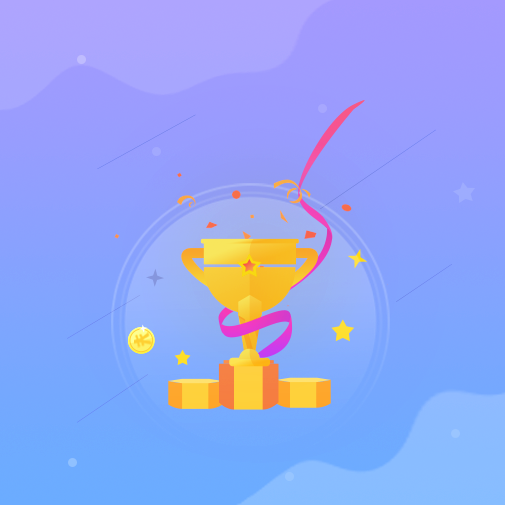
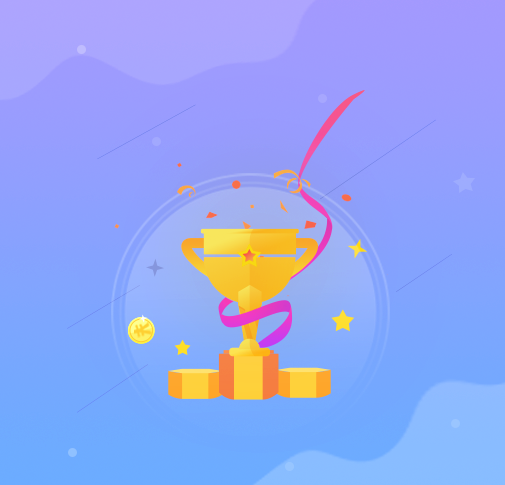
DZ-1173  完善进入和退出提示，以及答题卡入口

diff --git a/src/screens/answer/Exam.tsx b/src/screens/answer/Exam.tsx
@@ -1,6 +1,15 @@
 import React, { useRef, useState, useMemo, useCallback, useEffect } from 'react';
-import { DeviceEventEmitter, StyleSheet, View, FlatList } from 'react-native';
-import { Iconfont, PullChooser, TouchFeedback, PageContainer, StatusView } from '@src/components';
+import { DeviceEventEmitter, StyleSheet, View, FlatList, BackHandler } from 'react-native';
+import {
+    Iconfont,
+    PullChooser,
+    TouchFeedback,
+    PageContainer,
+    StatusView,
+    beginnerGuidance,
+    ExamGuidance,
+    Row,
+} from '@src/components';
 import { Theme, SCREEN_WIDTH, PxFit, Tools, ISIOS } from '@src/utils';
 import { useApolloClient, useQuery, GQL } from '@src/apollo';
 import { app, config } from '@src/store';
@@ -8,9 +17,10 @@ import { useNavigation } from 'react-navigation-hooks';
 import ChooseOverlay from './components/ChooseOverlay';
 import AnswerPlaceholder from './components/AnswerPlaceholder';
 import AnswerQuestion from './components/AnswerQuestion';
-import { show } from './components/AnswerCardOverlay';
+import AnswerCardOverlay from './components/AnswerCardOverlay';
 import { observer, QuestionsStore } from './store';
 import CommentOverlay from '@src/screens/comment/CommentOverlay';
+import LeaveExam from './components/LeaveExam';
 
 export default observer(() => {
     const client = useApolloClient();
@@ -94,7 +104,7 @@ export default observer(() => {
     useEffect(() => {
         const selectAnswerListener = DeviceEventEmitter.addListener('selectAnswer', () => {
             if (store.viewableItemIndex === store.questions.length - 1) {
-                show({ questions: store.questions, category, store, navigation, scrollTo });
+                AnswerCardOverlay.show({ questions: store.questions, category, store, navigation, scrollTo });
             }
         });
 
@@ -108,10 +118,28 @@ export default observer(() => {
                     listRef.current.scrollToIndex({ animated: true, index: store.viewableItemIndex + 1 });
             }
         });
+
+        beginnerGuidance({
+            guidanceKey: 'Exam',
+            GuidanceView: ExamGuidance,
+            dismissEnabled: true,
+        });
+
+        console.log('examData :', examData);
+
+        const hardwareBackPressListener = BackHandler.addEventListener('hardwareBackPress', () => {
+            console.log('退出');
+            if (!examData) {
+                LeaveExam.show(navigation, category, store.questions);
+                return true;
+            }
+        });
+
         return () => {
             selectAnswerListener.remove();
             showCommentListener.remove();
             nextQuestionListener.remove();
+            hardwareBackPressListener.remove();
         };
     }, [store, showComment]);
 
@@ -192,9 +220,23 @@ export default observer(() => {
                 onWillBlur={hideComment}
                 rightView={
                     question && (
-                        <TouchFeedback disabled={!question} style={styles.optionsButton} onPress={showOptions}>
-                            <Iconfont name="more-vertical" color="#000" size={PxFit(18)} />
-                        </TouchFeedback>
+                        <Row style={styles.optionsButton}>
+                            <TouchFeedback
+                                onPress={() =>
+                                    AnswerCardOverlay.show({
+                                        questions: store.questions,
+                                        category,
+                                        store,
+                                        navigation,
+                                        scrollTo,
+                                    })
+                                }>
+                                <Iconfont name={'order'} size={20} style={{ marginRight: 15 }} />
+                            </TouchFeedback>
+                            <TouchFeedback disabled={!question} onPress={showOptions}>
+                                <Iconfont name="more-vertical" color="#000" size={PxFit(18)} />
+                            </TouchFeedback>
+                        </Row>
                     )
                 }
                 hiddenNavBar={config.isFullScreen}
@@ -218,7 +260,7 @@ const styles = StyleSheet.create({
         flex: 1,
     },
     optionsButton: {
-        alignItems: 'flex-end',
+        alignItems: 'center',
         flex: 1,
         justifyContent: 'center',
         width: PxFit(40),

diff --git a/src/screens/answer/components/LeaveExam.tsx b/src/screens/answer/components/LeaveExam.tsx
@@ -1,0 +1,97 @@
+import React from 'react';
+import { StyleSheet, View, Text, Image } from 'react-native';
+
+import { Button } from 'components';
+import { Overlay } from 'teaset';
+import { QuestionsStore } from '../store';
+
+let OverlayKey: any = null;
+export const show = (navigation: { goBack: () => void }, category: { name: React.ReactNode }, questions: any[]) => {
+    const submitteds = questions.filter(question => {
+        return question.submittedAnswer && question.submittedAnswer !== '';
+    });
+
+    const percentage = submitteds.length / questions.length;
+
+    const overlayView = (
+        <Overlay.View animated>
+            <View style={styles.container}>
+                <View style={styles.container}>
+                    <View style={styles.content}>
+                        <View
+                            style={{
+                                backgroundColor: '#FFFFFF',
+                                borderRadius: PxFit(5),
+                                justifyContent: 'space-between',
+                                alignItems: 'center',
+                                padding: PxFit(20),
+                            }}>
+                            <Image
+                                source={require('@src/assets/images/ic_leave_exam.png')}
+                                style={{ width: Device.WIDTH / 3, height: ((Device.WIDTH / 3) * 272) / 255 }}
+                            />
+                            <Text style={{ fontSize: PxFit(11), color: '#666666', marginVertical: PxFit(20) }}>
+                                正在考：{category.name}
+                            </Text>
+                            <Text style={{ fontSize: PxFit(16), fontWeight: 'bold', textAlign: 'center' }}>
+                                很棒！你已经完成{submitteds.length}道题了，完成了{(percentage * 100).toFixed(2)}
+                                %，要不要继续考试呢？
+                            </Text>
+                        </View>
+                        <View style={{ marginTop: PxFit(60) }}>
+                            <Button title={'继续考试'} onPress={hide} style={styles.buttonText} />
+                            <Button
+                                title={'先走一步'}
+                                onPress={() => {
+                                    hide();
+                                    navigation.goBack();
+                                }}
+                                style={{
+                                    height: PxFit(42),
+                                    width: Device.WIDTH - PxFit(80),
+                                    borderRadius: PxFit(21),
+                                    marginTop: PxFit(15),
+                                    borderWidth: PxFit(1),
+                                    borderColor: Theme.lightBorder,
+                                }}
+                                textColor={Theme.defaultTextColor}
+                            />
+                        </View>
+                    </View>
+                </View>
+            </View>
+        </Overlay.View>
+    );
+    OverlayKey = Overlay.show(overlayView);
+};
+export const hide = () => {
+    Overlay.hide(OverlayKey);
+};
+
+const styles = StyleSheet.create({
+    container: {
+        flex: 1,
+        width: Device.WIDTH,
+        height: Device.HEIGHT,
+        backgroundColor: 'rgba(255,255,255,0)',
+        justifyContent: 'center',
+        alignItems: 'center',
+    },
+    content: {
+        flex: 1,
+        width: Device.WIDTH,
+        height: Device.HEIGHT,
+        paddingHorizontal: PxFit(30),
+        backgroundColor: '#FBFBFB',
+        alignItems: 'center',
+        justifyContent: 'center',
+    },
+    buttonText: {
+        height: PxFit(42),
+        width: Device.WIDTH - PxFit(80),
+        borderRadius: PxFit(19),
+        marginTop: PxFit(10),
+        backgroundColor: '#45C3FF',
+    },
+});
+export default { show, hide };

diff --git a/src/components/Guide/ExamGuidance.tsx b/src/components/Guide/ExamGuidance.tsx
@@ -1,0 +1,63 @@
+/*
+ * @flow
+ * created by wyk made in 2019-09-10 14:32:24
+ */
+import React, { useState, useMemo } from 'react';
+import { StyleSheet, Text, View, Image, TouchableWithoutFeedback } from 'react-native';
+import { PxFit, Theme, SCREEN_WIDTH, NAVBAR_HEIGHT, SCREEN_HEIGHT, Tools } from 'utils';
+
+function ExamGuidance({ onDismiss }) {
+    return (
+        <View style={styles.flexCenter}>
+            <View style={{ alignItems: 'center', height: Device.HEIGHT * 0.6, justifyContent: 'space-between' }}>
+                <View style={{ width: Device.WIDTH - PxFit(60), alignItems: 'center' }}>
+                    <Text style={{ color: 'white', fontSize: PxFit(20), fontWeight: 'bold' }}>考试模式</Text>
+                    <Text style={{ color: 'white', fontSize: PxFit(15), marginTop: PxFit(40) }}>
+                        由答题官方为您个性化推荐的练习题组，每5~10题为1组，考试结束系统自动提醒交卷
+                    </Text>
+                </View>
+                <View style={{ alignItems: 'center' }}>
+                    <Text style={{ color: 'white', fontSize: PxFit(15) }}>左右滑动可切上一题、下一题哦</Text>
+                    <View
+                        style={{
+                            borderWidth: PxFit(1),
+                            borderColor: 'white',
+                            borderRadius: PxFit(6),
+                            width: Device.WIDTH - PxFit(60),
+                            height: PxFit(48),
+                            justifyContent: 'center',
+                            alignItems: 'center',
+                            marginTop: PxFit(50),
+                        }}>
+                        <Text style={{ color: 'white', fontSize: PxFit(15) }}>知道了</Text>
+                    </View>
+                </View>
+            </View>
+        </View>
+    );
+}
+
+const WIDTH = SCREEN_WIDTH;
+const HEIGHT = (WIDTH * 1059) / 1040;
+const TOP = SCREEN_HEIGHT - HEIGHT / 2;
+// const RIGHT = WIDTH / 2 - (WIDTH * 140) / 411;
+
+const styles = StyleSheet.create({
+    flexCenter: {
+        flex: 1,
+        width: SCREEN_WIDTH,
+        height: SCREEN_HEIGHT,
+        justifyContent: 'center',
+        alignItems: 'center',
+    },
+    answerGuide: {
+        position: 'absolute',
+        // top: TOP,
+        // right: RIGHT,
+        width: WIDTH,
+        height: HEIGHT,
+        resizeMode: 'contain',
+    },
+});
+
+export default ExamGuidance;

diff --git a/src/screens/answer/ExamResult.tsx b/src/screens/answer/ExamResult.tsx
@@ -84,13 +84,17 @@ const ExamResult = observer((props: { navigation: any }) => {
                                         <View style={styles.fail} />
                                         <Text>错误</Text>
                                     </Row>
+                                    <Row>
+                                        <View style={styles.noAnswer} />
+                                        <Text>未答</Text>
+                                    </Row>
                                 </Row>
                                 <Text>共{questions.length}题</Text>
                             </Row>
                         </View>
                         <Row style={styles.questions}>
                             {questions.map((question: string, index: number) => {
-                                let backgroundColor = '#969696';
+                                let backgroundColor = Theme.lightBorder;
                                 if (question.submittedAnswer) {
                                     backgroundColor = '#FF7271';
                                     if (question.submittedAnswer === question.answer) {
@@ -203,6 +207,14 @@ const styles = StyleSheet.create({
     },
     fail: {
         backgroundColor: '#FF7271',
+        width: PxFit(16),
+        height: PxFit(16),
+        borderRadius: PxFit(8),
+        marginRight: PxFit(5),
+        marginLeft: PxFit(20),
+    },
+    noAnswer: {
+        backgroundColor: Theme.lightBorder,
         width: PxFit(16),
         height: PxFit(16),
         borderRadius: PxFit(8),

diff --git a/src/screens/task/components/TaskItem.tsx b/src/screens/task/components/TaskItem.tsx
@@ -333,7 +333,13 @@ const TaskItem = (props: Props) => {
 
     return (
         <Fragment>
-            <TouchFeedback style={styles.container} onPress={task.details.length > 0 && showTaskDetail}>
+            <TouchFeedback
+                style={styles.container}
+                onPress={() => {
+                    if (task.details.length > 0) {
+                        showTaskDetail();
+                    }
+                }}>
                 <Image
                     source={task.icon || require('@src/assets/images/task_money_icon.png')}
                     style={{ width: PxFit(42), height: PxFit(42), marginRight: PxFit(5), marginLeft: PxFit(15) }}

diff --git a/src/screens/home/components/ScrollableTabBar.js b/src/screens/home/components/ScrollableTabBar.js
@@ -12,8 +12,8 @@ const ScrollableTabBar = createReactClass({
         activeTab: PropTypes.number,
         tabs: PropTypes.array,
         backgroundColor: PropTypes.string,
-        activeTextStyle: PropTypes.style,
-        inactiveTextStyle: PropTypes.style,
+        // activeTextStyle: PropTypes.style,
+        // inactiveTextStyle: PropTypes.style,
         scrollOffset: PropTypes.number,
         style: ViewPropTypes.style,
         tabStyle: ViewPropTypes.style,

diff --git a/src/screens/answer/components/AnswerCardOverlay.tsx b/src/screens/answer/components/AnswerCardOverlay.tsx
@@ -64,7 +64,7 @@ export const AnswerCard = observer(({ questions, category, store, navigation, sc
                         navigation.replace('ExamResult', { category, questions, store });
                         hide();
                     }}>
-                    <Text style={styles.buttonText}>提交练习</Text>
+                    <Text style={styles.buttonText}>提交答案</Text>
                 </TouchFeedback>
             </View>
         </View>

diff --git a/src/store/storage.js b/src/store/storage.js
@@ -21,6 +21,8 @@ export const keys = {
     BeginnerGuidance_Answer: 'BeginnerGuidance_Answer',
     BeginnerGuidance_InputQuestion: 'BeginnerGuidance_InputQuestion',
     BeginnerGuidance_SubmitQuestion: 'BeginnerGuidance_SubmitQuestion',
+    BeginnerGuidance_Task: 'BeginnerGuidance_Task',
+    BeginnerGuidance_Exam: 'BeginnerGuidance_Exam',
     answeredId: 'answeredId',
     searchRecord: 'searchRecord',
     leaveAppTips: 'leaveAppTips',

diff --git a/src/components/index.js b/src/components/index.js
@@ -92,6 +92,7 @@ import AnswerGuidance from './Guide/AnswerGuidance';
 import SetQuestionGuidance from './Guide/SetQuestionGuidance';
 import VideoGuidance from './Guide/VideoGuidance';
 import TaskGuidance from './Guide/TaskGuidance';
+import ExamGuidance from './Guide/ExamGuidance';
 
 export {
     Iconfont,
@@ -169,4 +170,5 @@ export {
     SetQuestionGuidance,
     VideoGuidance,
     TaskGuidance,
+    ExamGuidance,
 };

diff --git a/src/components/Guide/beginnerGuidance.tsx b/src/components/Guide/beginnerGuidance.tsx
@@ -54,6 +54,7 @@ const beginnerGuidance = (props: Props) => {
     (async function() {
         // OverlayKey = Overlay.show(overlayView);
         const result = await storage.getItem(guidanceType);
+        console.log('result', result);
         if (!result) {
             OverlayKey = Overlay.show(overlayView);
             if (ISAndroid) {

diff --git a/src/screens/home/components/ListHeader.tsx b/src/screens/home/components/ListHeader.tsx
@@ -66,7 +66,7 @@ const styles = StyleSheet.create({
     enterWrap: {},
     letEntrance: {
         width: entranceWidth,
-        height: entranceWidth,
+        height: (entranceWidth * 485) / 505,
         // justifyContent: 'center',
         alignItems: 'center',
         padding: PxFit(10),
